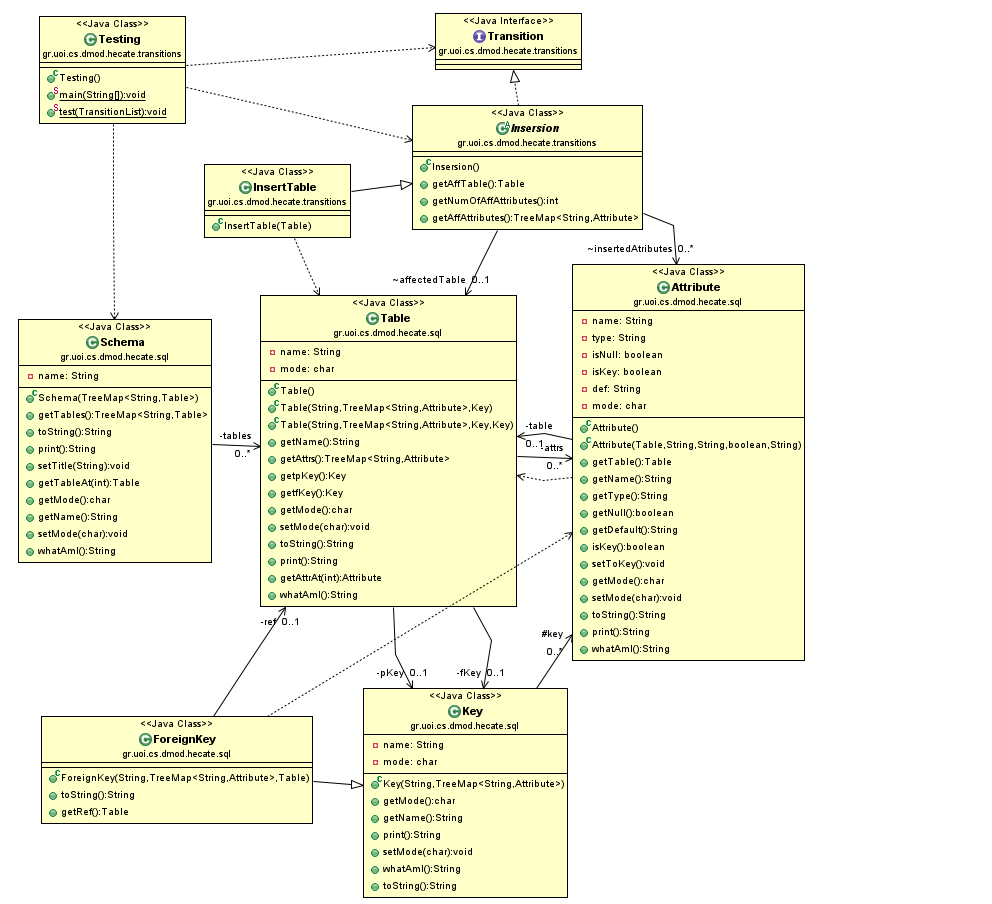
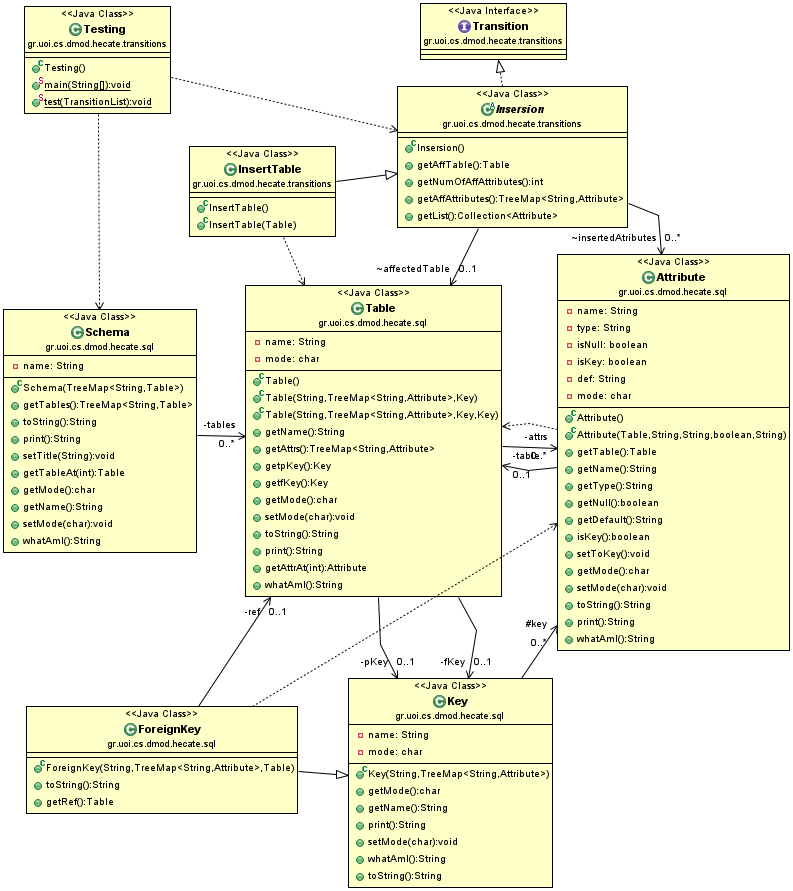
partial work on Insertion

diff --git a/src/gr/uoi/cs/dmod/hecate/transitions/TransitionList.java b/src/gr/uoi/cs/dmod/hecate/transitions/TransitionList.java
@@ -2,26 +2,19 @@ package gr.uoi.cs.dmod.hecate.transitions;
 
 import java.util.ArrayList;
 
+import javax.xml.bind.annotation.XmlAnyElement;
 import javax.xml.bind.annotation.XmlAttribute;
 import javax.xml.bind.annotation.XmlRootElement;
 
-@XmlRootElement
-public class TransitionList extends ArrayList<Transition> {
+@XmlRootElement(name="transition")
+public class TransitionList {
 	
-	/**
-	 * 
-	 */
-	private static final long serialVersionUID = -8523048667698455130L;
-	
-	@XmlAttribute
+	@XmlAttribute(name="oldVersion")
 	private String oldVersion;
-	@XmlAttribute
+	@XmlAttribute(name="newVersion")
 	private String newVersion;
-	
-	@Override
-	public Object[] toArray() {
-		return super.toArray();
-	}
+	@XmlAnyElement
+	private ArrayList<Transition> list;
 	
 	public TransitionList() {
 		this.oldVersion = null;
@@ -31,6 +24,15 @@ public class TransitionList extends ArrayList<Transition> {
 	public TransitionList(String oldVersion, String newVersion) {
 		this.oldVersion = oldVersion;
 		this.newVersion = newVersion;
+		list = new ArrayList<Transition>();
+	}
+	
+	public void add(Transition in) {
+		this.list.add(in);
+	}
+	
+	public Transition get(int index) {
+		return list.get(index);
 	}
 
 	/**

diff --git a/src/gr/uoi/cs/dmod/hecate/transitions/Insersion.java b/src/gr/uoi/cs/dmod/hecate/transitions/Insersion.java
@@ -6,10 +6,10 @@ package gr.uoi.cs.dmod.hecate.transitions;
 import gr.uoi.cs.dmod.hecate.sql.Attribute;
 import gr.uoi.cs.dmod.hecate.sql.Table;
 
+import java.util.Collection;
 import java.util.TreeMap;
 
-import javax.xml.bind.annotation.XmlAccessType;
-import javax.xml.bind.annotation.XmlAccessorType;
+import javax.xml.bind.annotation.XmlElement;
 import javax.xml.bind.annotation.XmlRootElement;
 
 
@@ -18,9 +18,9 @@ import javax.xml.bind.annotation.XmlRootElement;
  *
  */
 @XmlRootElement
-@XmlAccessorType(XmlAccessType.FIELD)
 public abstract class Insersion implements Transition {
 
+	@XmlElement(name="table")
 	Table affectedTable;
 
 	TreeMap<String, Attribute> insertedAtributes;
@@ -39,5 +39,10 @@ public abstract class Insersion implements Transition {
 	
 	public TreeMap<String,Attribute> getAffAttributes() {
 		return insertedAtributes;
+	}
+	
+	@XmlElement(name="attribute")
+	public Collection<Attribute> getList() {
+		return insertedAtributes.values();
 	}
 }

diff --git a/src/gr/uoi/cs/dmod/hecate/sql/Table.java b/src/gr/uoi/cs/dmod/hecate/sql/Table.java
@@ -3,7 +3,13 @@ package gr.uoi.cs.dmod.hecate.sql;
 import java.util.Map;
 import java.util.TreeMap;
 
+import javax.xml.bind.annotation.XmlAccessType;
+import javax.xml.bind.annotation.XmlAccessorType;
+import javax.xml.bind.annotation.XmlValue;
+
+@XmlAccessorType(XmlAccessType.NONE)
 public class Table implements SqlItem{
+	@XmlValue
 	private String name;
 	private TreeMap<String, Attribute> attrs;
 	private Key pKey;

diff --git a/src/gr/uoi/cs/dmod/hecate/transitions/Testing.java b/src/gr/uoi/cs/dmod/hecate/transitions/Testing.java
@@ -37,7 +37,7 @@ public class Testing {
 			JAXBContext jaxbContext = JAXBContext.newInstance(Insersion.class, TransitionList.class);
 			Marshaller jaxbMarshaller = jaxbContext.createMarshaller();
 			jaxbMarshaller.setProperty(Marshaller.JAXB_FORMATTED_OUTPUT, true);
-			jaxbMarshaller.marshal(tl.get(5), System.out);
+			jaxbMarshaller.marshal(tl, System.out);
 		} catch (JAXBException e) {
 			e.printStackTrace();
 		}

diff --git a/src/gr/uoi/cs/dmod/hecate/sql/Attribute.java b/src/gr/uoi/cs/dmod/hecate/sql/Attribute.java
@@ -1,7 +1,13 @@
 package gr.uoi.cs.dmod.hecate.sql;
 
+import javax.xml.bind.annotation.XmlAccessType;
+import javax.xml.bind.annotation.XmlAccessorType;
+import javax.xml.bind.annotation.XmlValue;
+
+@XmlAccessorType(XmlAccessType.NONE)
 public class Attribute implements SqlItem{
 	private Table table;
+	@XmlValue
 	private String name;
 	private String type;
 	private boolean isNull;

diff --git a/antlr-generated/gr/uoi/cs/dmod/hecate/parser/DDLParser.java b/antlr-generated/gr/uoi/cs/dmod/hecate/parser/DDLParser.java
@@ -1,4 +1,4 @@
-// $ANTLR 3.4 /home/iskoulis/Dev/Hecate/src/gr/uoi/cs/dmod/hecate/parser/DDL.g 2012-11-20 18:06:11
+// $ANTLR 3.4 /home/iskoulis/Dev/Hecate/src/gr/uoi/cs/dmod/hecate/parser/DDL.g 2012-11-26 17:45:14
 
   package gr.uoi.cs.dmod.hecate.parser ;
   import gr.uoi.cs.dmod.hecate.sql.* ;

diff --git a/src/gr/uoi/cs/dmod/hecate/transitions/InsertAttribute.java b/src/gr/uoi/cs/dmod/hecate/transitions/InsertAttribute.java
@@ -11,6 +11,10 @@ import gr.uoi.cs.dmod.hecate.sql.Attribute;
  */
 public class InsertAttribute extends Insersion {
 	
+	public InsertAttribute() {
+		super();
+	}
+	
 	public InsertAttribute(Attribute newAttribute) {
 		super();
 		super.affectedTable = newAttribute.getTable();

diff --git a/src/gr/uoi/cs/dmod/hecate/transitions/InsertTable.java b/src/gr/uoi/cs/dmod/hecate/transitions/InsertTable.java
@@ -11,6 +11,10 @@ import gr.uoi.cs.dmod.hecate.sql.Table;
  */
 public class InsertTable extends Insersion {
 	
+	public InsertTable() {
+		super();
+	}
+	
 	public InsertTable(Table newTable) {
 		super.affectedTable = newTable;
 		super.insertedAtributes = newTable.getAttrs();

diff --git a/antlr-generated/gr/uoi/cs/dmod/hecate/parser/DDLLexer.java b/antlr-generated/gr/uoi/cs/dmod/hecate/parser/DDLLexer.java
@@ -1,4 +1,4 @@
-// $ANTLR 3.4 /home/iskoulis/Dev/Hecate/src/gr/uoi/cs/dmod/hecate/parser/DDL.g 2012-11-20 18:06:13
+// $ANTLR 3.4 /home/iskoulis/Dev/Hecate/src/gr/uoi/cs/dmod/hecate/parser/DDL.g 2012-11-26 17:45:15
 
   package gr.uoi.cs.dmod.hecate.parser ;
 
